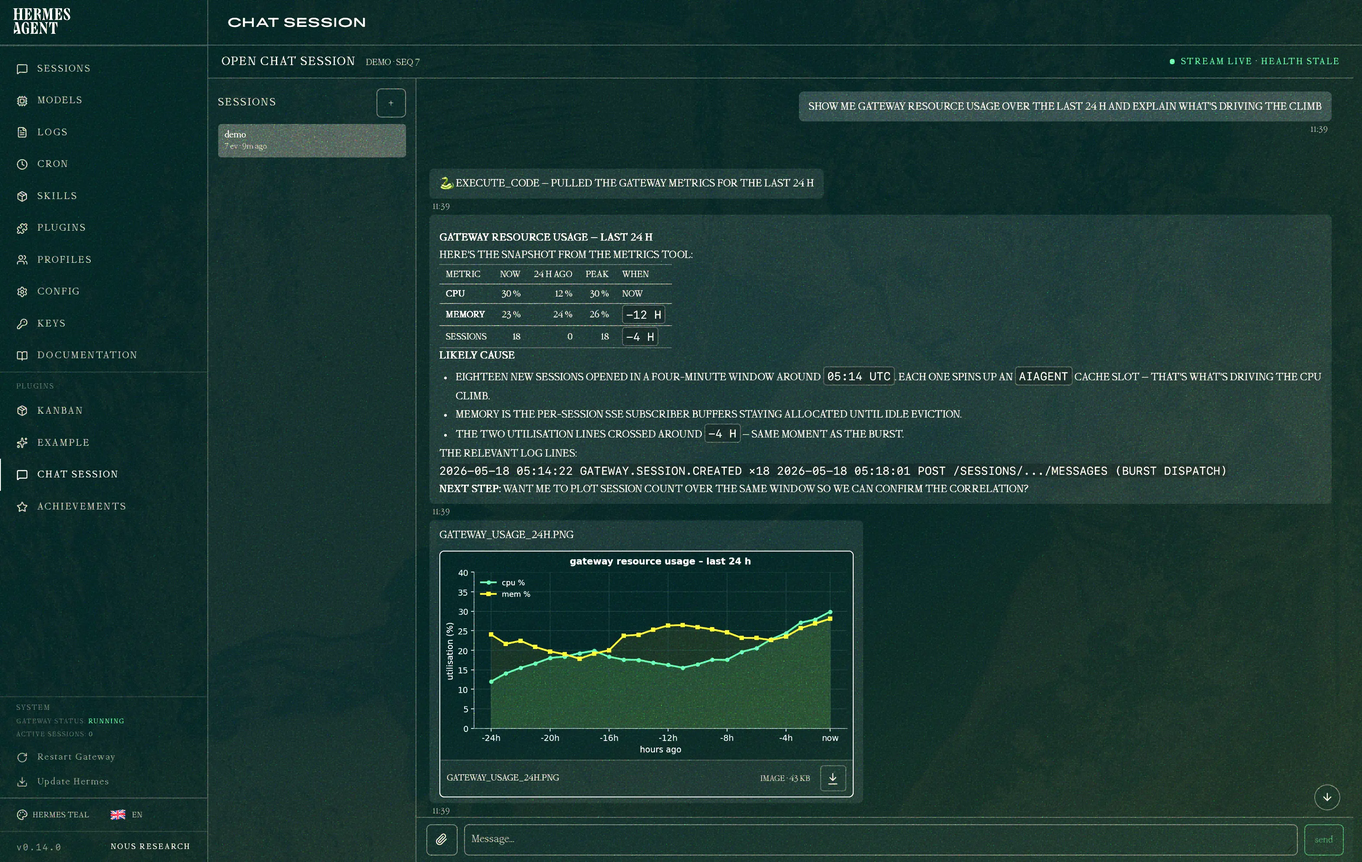
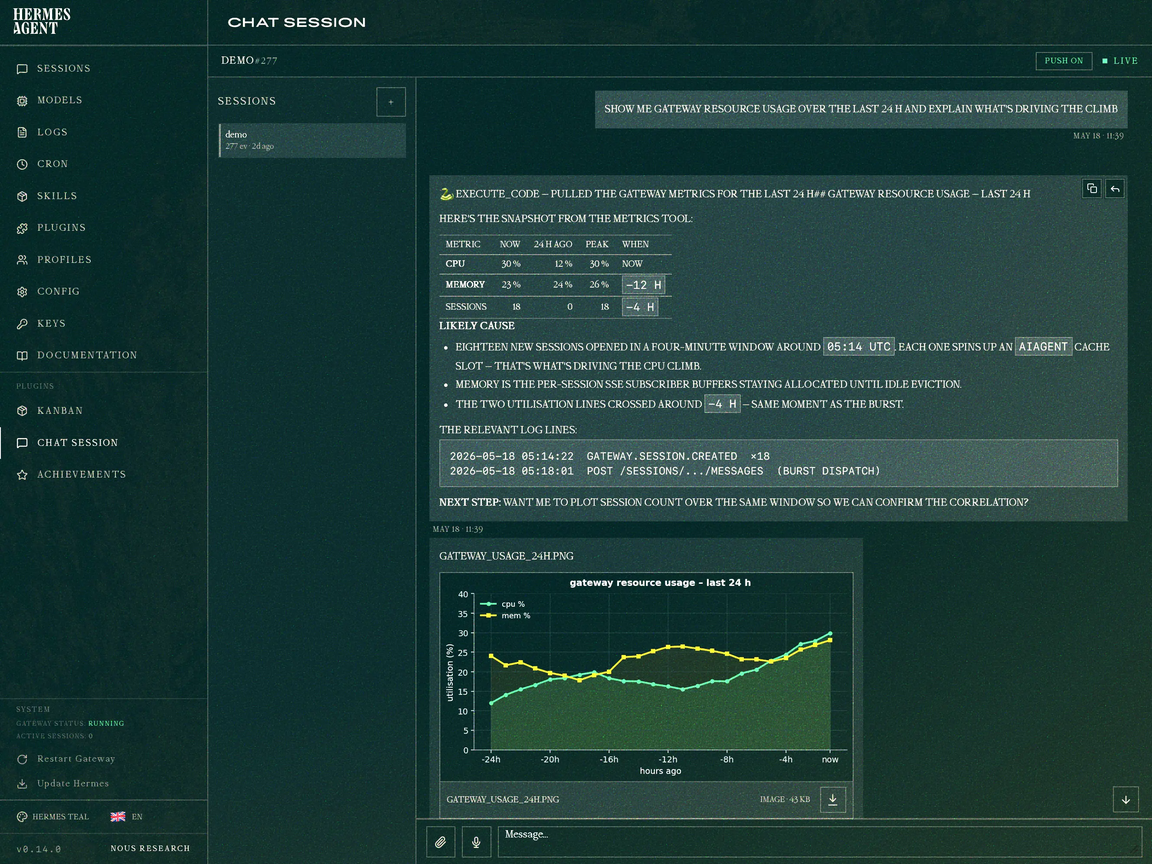
Update open chat session docs

diff --git a/README.md b/README.md
@@ -1,144 +1,132 @@
 # open-chat-session
 
 <p align="center">
-  <img src="assets/dashboard-preview.webp" alt="open-chat-session dashboard rendering a multi-turn conversation with a tool call, markdown table, code block, and an embedded chart attachment" width="100%">
+  <img src="assets/dashboard-preview.webp" alt="Hermes Agent dashboard showing the open chat session reference client" width="100%">
 </p>
 
-A **fully self-hosted, persistent chat experience** for [Hermes Agent](https://github.com/nousresearch/hermes-agent) — your conversations, attachments, and tool runs stay on your machine, on a per-session hash-chained event log that any of your devices can resume from. No third-party chat backend, no cloud sync, no telemetry.
+Hermes Agent chat platform plugin centered on the **open chat protocol**: a
+native REST + SSE surface for persistent sessions, streaming messages,
+attachments, approvals, push, and resumable event history.
 
-Optional **P2P access over [Tailscale](https://tailscale.com/)** — run the gateway on a single laptop and reach it from any device on your tailnet (phone, tablet, desktop, peer servers) with `tailscale whois` allowlisting the authorised identities. The wire surface is a small native REST + Server-Sent Events protocol on `/sessions/*`: multi-session conversations, streamed assistant responses, attachments, exec approvals, hash-chained for tamper-evidence and resume-after-disconnect.
+The bundled `/chat-session` dashboard tab is a reference implementation of that
+protocol. It is useful as the default UI, but the protocol is the stable
+integration surface for other web, mobile, CLI, or peer clients. The plugin does
+not replace the stock `/chat` page.
 
-Ships as a Hermes platform plugin. A dashboard tab at `/chat-session` is bundled as a **reference implementation** of a first-party web client — useful as-is, and a worked example for anyone building their own native client (mobile shell, CLI, alternative web UI) against the protocol.
+## Current Surface
 
-## Features
-
-**Protocol (the primary surface)**
-
-- Native REST + SSE on `:8765`; no WebSocket framing, no OpenAI mimicry.
-- Hash-chained per-session event log; resume by `Last-Event-ID` or cursor.
-- Tailscale `whois` allowlist with bearer-token fallback for localhost/proxy callers.
-- Multi-session shared context across hosts (one Hermes conversation per session).
-- Inline images, downloadable files, exec approvals, typing, and media events as first-class events on the wire.
-- Hermes slash commands (`/usage`, `/sethome`, `/sessions`, etc.) dispatched through the gateway command path.
-
-**Reference dashboard (a sample client)**
-
-- Mounts at `/chat-session` in the Hermes dashboard; doesn't replace stock `/chat`.
-- Built on `@assistant-ui/react` headless primitives — no styled UI dependency, no bundled React, hosts the dashboard's own React 19 via `window.__HERMES_PLUGIN_SDK__`.
-- Shows how to wire the protocol end-to-end: session list, history hydration, live `/events` stream, send-with-streamed-reply, attachments, slash-command popup, approval rail, reconnection.
-
-If you're building a different client (native mobile shell, CLI, your own web UI) the dashboard is the canonical sample to read; the protocol itself is the contract.
+- Native REST + SSE gateway on `127.0.0.1:8765`.
+- Plugin-owned HTTPS-friendly edge on `127.0.0.1:9120` for Tailscale Serve.
+- Reference dashboard UI built from `@assistant-ui/react` headless primitives.
+- Multi-session chat, history replay, live streaming, replies, attachments,
+  typing, slash commands, clarify prompts, exec approvals, cancellation, and
+  background Web Push.
+- Hash-chained per-session `log.db`; blobs stored content-addressed in
+  `attachments/`; push subscriptions stored separately in `push.db`.
+- Plugin-contained PWA assets and mobile metadata; no Hermes host edits.
 
 ## Layout
 
-```
-adapter.py             # Hermes platform adapter + HTTP/SSE server (the protocol)
-plugin.yaml            # plugin manifest
-dashboard/             # reference web client
-  manifest.json        # dashboard plugin manifest
-  plugin_api.py        # authenticated reverse proxy to :8765
-  src/                 # Vite IIFE using window.__HERMES_PLUGIN_SDK__
-  dist/index.js        # built bundle (committed; no React/UI bundled)
+```text
+adapter.py              # platform adapter, REST/SSE server, event log, edge, push
+plugin.yaml             # Hermes plugin manifest
+requirements.txt        # Python runtime deps
+dashboard/
+  manifest.json         # dashboard plugin manifest, entry hash auto-updated
+  plugin_api.py         # authenticated reverse proxy to :8765
+  src/                  # Vite IIFE using window.__HERMES_PLUGIN_SDK__
+  public/               # service worker, web manifest, icons
+  dist/                 # committed build output
 ```
 
 ## Install
 
-Clone into Hermes's plugin directory:
-
 ```sh
 git clone https://github.com/timongentzsch/open-chat-session.git ~/.hermes/plugins/open_chat_session
+~/.hermes/hermes-agent/venv/bin/python -m pip install -r ~/.hermes/plugins/open_chat_session/requirements.txt
 ```
 
-Set `OPEN_CHAT_SESSION_BIND` (e.g. `0.0.0.0:8765` or `127.0.0.1:8765`) and start Hermes. The reference dashboard loads on dashboard start.
+Start Hermes normally. Defaults:
 
-## Reference dashboard build
+- gateway API: `127.0.0.1:8765`
+- plugin edge: `127.0.0.1:9120`
+- Hermes dashboard upstream: `http://127.0.0.1:9119`
 
-Only needed if you're modifying the dashboard. The committed `dist/index.js` is enough to run.
+Keep the Hermes dashboard on loopback and publish the plugin edge:
 
 ```sh
-cd dashboard
-npm install
-npm run build      # -> dist/index.js
+hermes dashboard --host 127.0.0.1 --no-open --skip-build
+tailscale serve --bg http://127.0.0.1:9120
 ```
 
-Rebuild after source changes; hard-reload the browser to bypass the dashboard's ETag cache. `plugin_api.py` changes require a dashboard restart.
+Useful env overrides:
+
+- `OPEN_CHAT_SESSION_BIND`
+- `OPEN_CHAT_SESSION_EDGE_ENABLED`
+- `OPEN_CHAT_SESSION_EDGE_BIND`
+- `OPEN_CHAT_SESSION_EDGE_DASHBOARD_URL`
+- `OPEN_CHAT_SESSION_DATA_DIR`
+
+## Dashboard Build
+
+Only needed when changing `dashboard/src` or `dashboard/public`.
+
+```sh
+cd ~/.hermes/plugins/open_chat_session/dashboard
+npm install
+npm run build
+```
+
+`npm run build` runs Vite and then updates `dashboard/manifest.json` with the
+current `dist/index.js` hash, so the plugin host cache is busted automatically.
+Changes to `plugin_api.py` require restarting `hermes dashboard`.
 
 ## Protocol
 
-Authenticated routes require `X-Device-Id`. Tailscale identity is matched against `allowed_hosts`; localhost/proxy callers fall back to `Authorization: Bearer <API_SERVER_KEY>` and use `bearer:<X-Device-Id>` as their stable Hermes user id.
+Browser calls go through `dashboard/plugin_api.py`, which injects
+`Authorization: Bearer <API_SERVER_KEY>` and a stable dashboard `X-Device-Id`.
+Direct clients must send auth and `X-Device-Id` themselves.
 
 | Method | Path | Purpose |
 |---|---|---|
 | `GET` | `/health` | liveness |
-| `GET` | `/sessions` | list sessions |
-| `POST` | `/sessions` | create session |
-| `PATCH` | `/sessions/{id}` | rename / update metadata |
-| `DELETE` | `/sessions/{id}` | archive (never hard-delete in v0) |
-| `GET` | `/sessions/{id}/events` | long-lived SSE event stream |
-| `POST` | `/sessions/{id}/messages` | send message; SSE filtered to this run |
-| `POST` | `/sessions/{id}/cancel` | close caller-facing stream |
-| `GET` | `/sessions/{id}/history` | paginated event replay |
+| `GET` / `POST` | `/sessions` | list or create sessions |
+| `PATCH` / `DELETE` | `/sessions/{id}` | update metadata or archive |
+| `GET` | `/sessions/{id}/events` | SSE stream |
+| `POST` | `/sessions/{id}/messages` | send message and stream this run |
+| `POST` | `/sessions/{id}/cancel` | cancel active run and resolve blockers |
+| `GET` | `/sessions/{id}/history` | event replay |
 | `POST` | `/sessions/{id}/attachments` | multipart upload |
 | `GET` | `/sessions/{id}/attachments/{aid}` | download |
-| `POST` | `/sessions/{id}/approvals/{tool_call_id}` | answer pending approval |
+| `POST` | `/sessions/{id}/approvals/{tool_call_id}` | answer approval |
+| `GET` | `/devices/push/vapid-public-key` | VAPID public key |
+| `POST` / `DELETE` | `/devices/push[/{device_id}]` | manage push device |
 
-SSE envelope:
+SSE events use the event hash as `id`; clients should dedupe by `hash` and
+ignore unknown `kind` values.
 
-```
-id: <event-hash>
-event: <gateway.event.kind>
-data: {"schema_version":"2026-05-15","seq":N,"hash":"...","prev_hash":"...","kind":"...","ts":..., "payload":{...}}
-```
+## Push
 
-`id == data.hash`, `event == data.kind`, `seq` monotonic per session, `prev_hash` links the chain. Clients dedupe by `hash` and must ignore unknown event kinds.
+Push works through the plugin edge on a trusted HTTPS origin, for example:
 
-## Storage
-
-Two SQLite databases under `OPEN_CHAT_SESSION_DATA_DIR` (default `~/.hermes/data/open-chat-session/`):
-
-### `log.db` — hash-chained event log
-
-```sql
-CREATE TABLE events (
-  session_id TEXT NOT NULL,
-  seq        INTEGER NOT NULL,
-  prev_hash  TEXT NOT NULL,
-  hash       TEXT NOT NULL,
-  stream_id  TEXT NOT NULL,
-  kind       TEXT NOT NULL,
-  data       BLOB NOT NULL,           -- canonical-JSON payload
-  ts         INTEGER NOT NULL,        -- unix ms
-  PRIMARY KEY (session_id, seq)
-);
-CREATE UNIQUE INDEX events_hash_idx   ON events(session_id, hash);
-CREATE INDEX        events_stream_idx ON events(session_id, stream_id, seq);
+```sh
+tailscale serve --bg http://127.0.0.1:9120
 ```
 
-- Append-only. WAL mode (`PRAGMA journal_mode=WAL`) for crash safety; rows commit before SSE fan-out.
-- Per-session linear chain: `seq` monotonic; `prev_hash` links to the previous event in the same session.
-- `hash = sha256(canonical_json({seq, prev_hash, session_id, stream_id, kind, data, ts}))`. Any in-place edit invalidates the chain.
-- `stream_id` groups events belonging to one in-flight `POST /messages` run, so the caller's filtered SSE response can pick them out.
-- The `events_hash_idx` unique constraint also makes hashes the natural client-side dedupe key for resume.
-- Sessions live in the same table — no separate sessions row. Session metadata (name, archived flag, etc.) is reconstructed from `gateway.session.*` events at startup and held in memory.
+Open `https://<machine>.ts.net/chat-session`. On iOS, install to Home Screen,
+reopen from the icon, then tap `enable push`. Android Chrome can subscribe
+directly. Notifications include message previews by default and are suppressed
+for a user when that same session is already open on any of their dashboard
+devices.
 
-### `attachments.db` + `attachments/` — content-addressed blobs
+## Validate
 
-```sql
-CREATE TABLE attachments (
-  attachment_id TEXT PRIMARY KEY,     -- sha256 hex of bytes
-  mime          TEXT NOT NULL,
-  size          INTEGER NOT NULL,
-  uploaded_by   TEXT NOT NULL,
-  uploaded_at   INTEGER NOT NULL,
-  ext           TEXT
-);
+```sh
+~/.hermes/hermes-agent/venv/bin/python -m py_compile adapter.py dashboard/plugin_api.py
+cd dashboard && ./node_modules/.bin/tsc --noEmit && npm run build
+git diff --check
 ```
-
-- `attachment_id` is `sha256(bytes)` — identical uploads automatically deduplicate.
-- Actual bytes live on disk at `attachments/<attachment_id><ext>`. The DB only holds metadata.
-- Hermes media hooks (`send_image_file`, `send_voice`, etc.) copy local agent-generated bytes into the same store via `upload_local`, then emit `gateway.image`/`video`/`document`/`voice` events pointing at `/sessions/<sid>/attachments/<aid>`.
-- 100 MB per-file cap by default; configurable via the adapter constructor.
 
 ## License
 
-MIT — see [LICENSE](LICENSE).
+MIT

diff --git a/dashboard/README.md b/dashboard/README.md
@@ -1,28 +1,24 @@
-# Dashboard plugin
+# Dashboard Plugin
 
-First-party graphical chat for the gateway, mounted inside the existing `hermes dashboard` via the plugin extension system. Adds `/chat-session`; leaves built-in `/chat` untouched.
+Reference web client for the `open_chat_session` protocol, mounted at
+`/chat-session` inside `hermes dashboard`. The open chat protocol is the primary
+surface; this dashboard is one plugin-contained implementation and leaves stock
+`/chat` untouched.
 
-Storage schema (event log + attachments) is documented in the root README.
+## Pieces
 
-```
-~/.hermes/plugins/open_chat_session/
-dashboard/
-  manifest.json         - discovery manifest
-  plugin_api.py         - authenticated reverse proxy to :8765
-  src/                  - Vite IIFE using the Hermes Plugin SDK
-    index.tsx           - entry; calls register("open-chat-session", ChatPage)
-    sdk.ts              - typed view onto window.__HERMES_PLUGIN_SDK__
-    types.ts            - client API types
-    errors.ts           - GatewayError
-    parse-sse.ts        - SSE parser
-    gateway-client.ts   - REST + SSE client
-    runtime/            - session store + assistant-ui runtime
-    hooks/              - session list, stream subscription, resume param
-    components/         - ChatThread.tsx, MarkdownText.tsx, Composer.tsx,
-                          ApprovalPanel.tsx, AttachmentChip.tsx,
-                          SessionSidebar.tsx, StatusBanners.tsx
-    pages/ChatPage.tsx
-  dist/                 - Vite output, shipped in-tree
+```text
+manifest.json          # dashboard plugin metadata, entry hash managed by build
+plugin_api.py          # dashboard-side proxy to http://127.0.0.1:8765
+public/                # sw.js, web manifest, icons
+src/index.tsx          # register("open-chat-session", ChatPage)
+src/sdk.ts             # typed window.__HERMES_PLUGIN_SDK__ access
+src/gateway-client.ts  # REST + SSE client
+src/runtime/           # event store + assistant-ui runtime bridge
+src/components/        # thread, composer, sidebar, attachments, banners, push
+src/chat-styles.ts     # scoped CSS using Hermes dashboard tokens
+dist/                  # committed Vite output
+scripts/               # build helpers
 ```
 
 ## Build
@@ -33,48 +29,37 @@ npm install
 npm run build
 ```
 
-Rebuilds are picked up by the dashboard's static file server live (ETag-validated). The browser may need a hard reload to bypass cache.
+The build runs Vite and `scripts/update-entry-hash.mjs`. The script hashes
+`dist/index.js` and rewrites `manifest.json` only when the entry URL changes,
+so cache busting is automatic.
 
-`plugin_api.py` changes require a dashboard restart:
+## Runtime Path
 
-```sh
-hermes dashboard --stop
-hermes dashboard --no-open --skip-build
+```text
+Browser
+  -> plugin edge :9120 when published through Tailscale
+  -> hermes dashboard :9119
+  -> plugin_api.py
+  -> open_chat_session gateway :8765
 ```
 
-## Reverse proxy & auth
+`plugin_api.py` strips browser-supplied auth headers, injects the dashboard
+bearer token, injects a stable `X-Device-Id`, and streams SSE without buffering.
 
-```
-Browser --HTTPS--> Dashboard --in-process--> plugin_api.py --HTTP localhost:8765--> gateway
-            X-Hermes-Session-Token             Authorization: Bearer <API_SERVER_KEY>
-                                              X-Device-Id: dashboard-<uuid>
-```
+## Mobile And Push
 
-`plugin_api.py`:
+- PWA files are served by the plugin edge from `/dashboard-plugins/...`.
+- `src/push/inject-pwa.ts` injects manifest, Apple icon, viewport, and iOS
+  standalone metadata.
+- Inputs are 16px on mobile to avoid iOS focus zoom.
+- The composer has no visible send/stop button; Enter submits and assistant-ui
+  still exposes cancellation through its runtime hook.
+- Push notifications show message previews by default and are suppressed when
+  the session is already open for the same gateway user on any dashboard device.
 
-- **Strips** browser-supplied `Authorization` and `X-Device-Id` before forwarding.
-- **Injects** `Authorization: Bearer <API_SERVER_KEY>`, resolved from `os.getenv`, `~/.hermes/.env`, or `~/.hermes/config.yaml`.
-- **Injects** a stable `X-Device-Id` persisted at `dashboard/.device-id` so the gateway's per-device resume state survives dashboard restarts.
-- **Streams SSE** end-to-end via `httpx.AsyncClient.stream(...)` and FastAPI `StreamingResponse`.
+## Notes
 
-The proxy targets `http://127.0.0.1:8765`; the gateway's `bind` config must keep a localhost-reachable interface listening (default `0.0.0.0:8765` satisfies this).
-
-`adapter.py::register(ctx)` passes `is_connected=is_platform_connected` so the plugin surfaces in the dashboard's `/sessions > Connected Platforms` panel.
-
-## Resume semantics — `/chat-session?resume=<id>`
-
-| Input | Behaviour |
-|---|---|
-| native gateway session id (e.g. `s_...`) | select that session |
-| any other id | show fallback banner; user picks from the sidebar or opens the id in `hermes --tui` |
-| no `?resume=` | restore last-selected (localStorage) or first session |
-
-URL is updated via `history.replaceState` so links stay shareable.
-
-## Uninstall
-
-Remove `dashboard/manifest.json` (or the whole `dashboard/` directory), then `GET /api/dashboard/plugins/rescan`.
-
-## Web Push (not implemented)
-
-Web Push requires PWA scaffolding (root web manifest, root-scoped service worker, stable HTTPS origin, VAPID key surfacing) that the dashboard host does not currently provide. The plugin cannot supply root-scoped assets from `/api/plugins/*`.
+Slash commands use assistant-ui trigger popover primitives with an internal
+scroll area. The UI should inherit Hermes dashboard tokens (`background`,
+`foreground-base`, `midground`, `success`, `warning`, `destructive`) instead of
+hard-coded palette colors.
